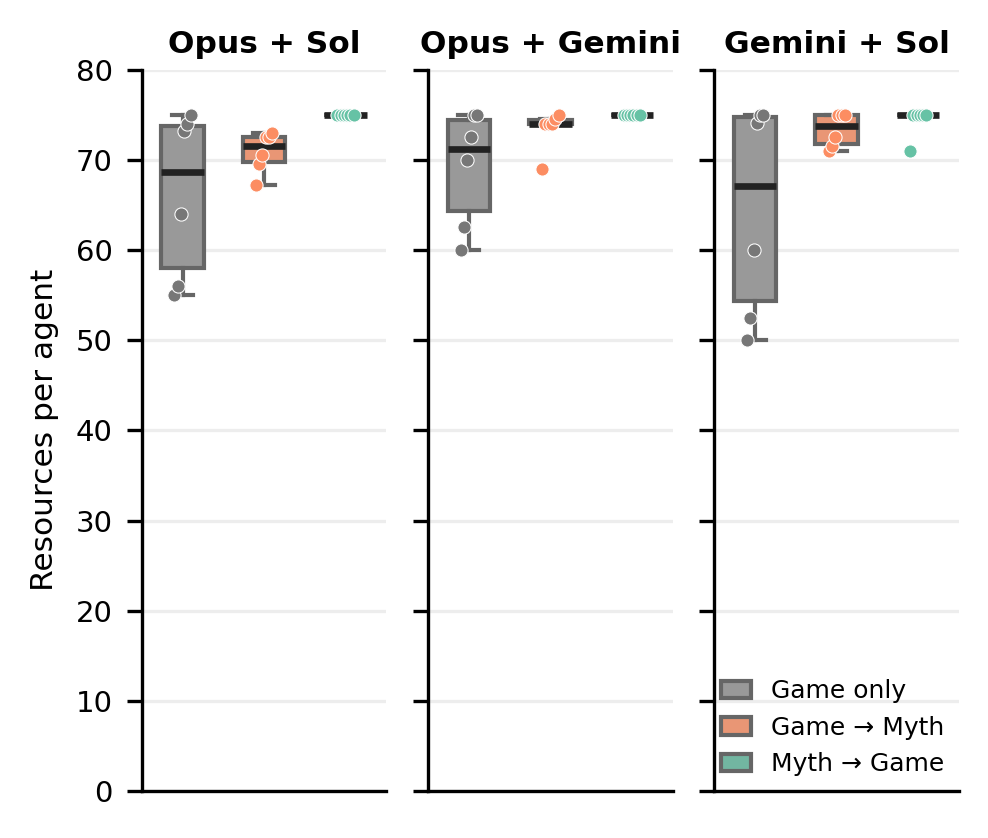
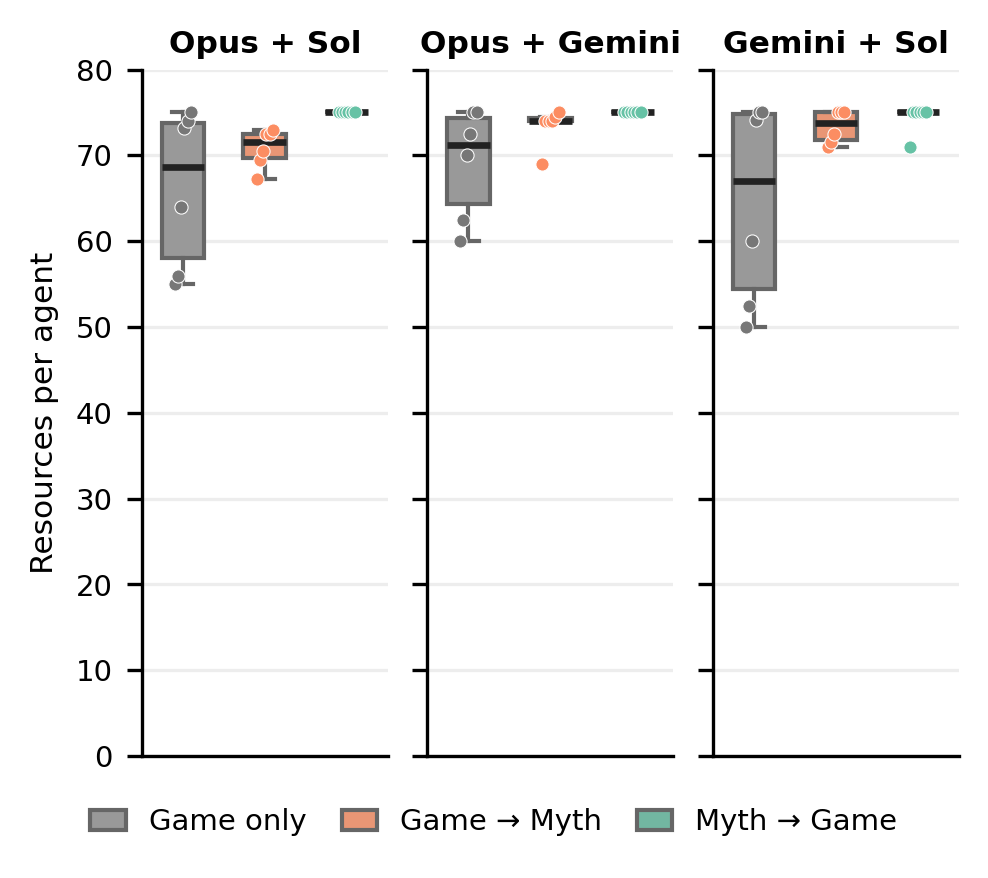
Figure 4: legend back below the panels, smaller gap

diff --git a/scripts/analyze_frontier_main_mixed_20260928.py b/scripts/analyze_frontier_main_mixed_20260928.py
@@ -132,9 +132,10 @@ def plot_dyads(df):
         ax.tick_params(axis="y", labelsize=7)
         ax.set_title(panel.replace("Opus 5", "Opus"), fontsize=7.5, fontweight="bold", pad=4)
     axes[0][0].set_ylabel("Resources per agent", fontsize=7.5)
-    axes[0][2].legend([Patch(facecolor=c, edgecolor="#666666") for c in BOX_COLORS], ORDER_LABELS,
-                      loc="lower right", fontsize=6, frameon=False, handlelength=1.2, borderaxespad=.2)
-    fig.tight_layout(w_pad=.6)
+    fig.legend([Patch(facecolor=c, edgecolor="#666666") for c in BOX_COLORS], ORDER_LABELS,
+               loc="lower center", bbox_to_anchor=(.5, -.01), ncol=3, fontsize=7, frameon=False,
+               handlelength=1.2, columnspacing=1.2)
+    fig.tight_layout(rect=(0, .04, 1, 1), w_pad=.6)
     fig.savefig(OUTPUT / "frontier_mixed_dyads_resources_boxplots.png", dpi=300, bbox_inches="tight")
     plt.close(fig)
 
